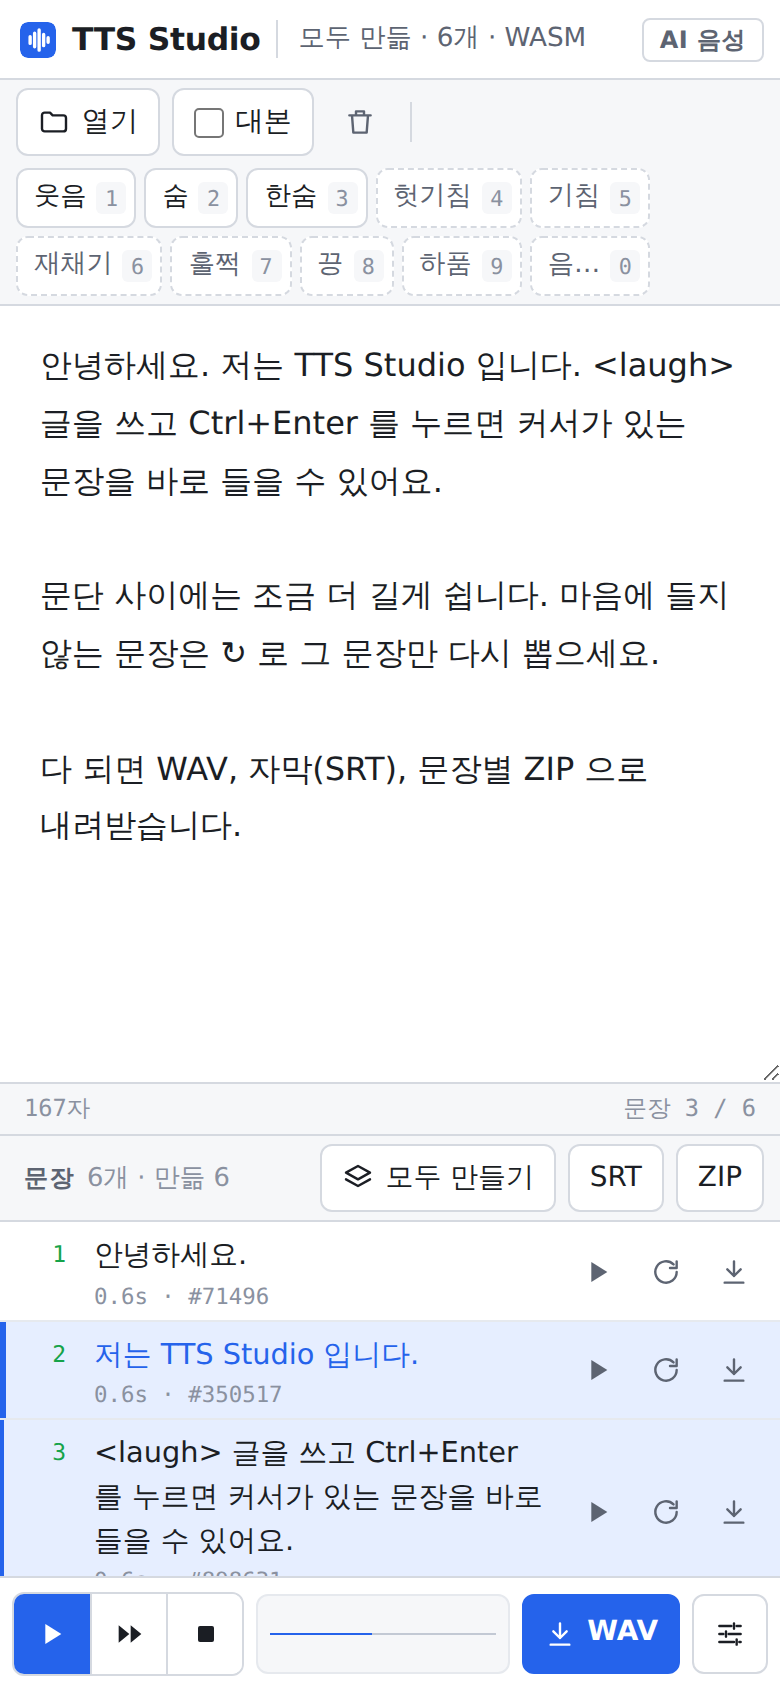
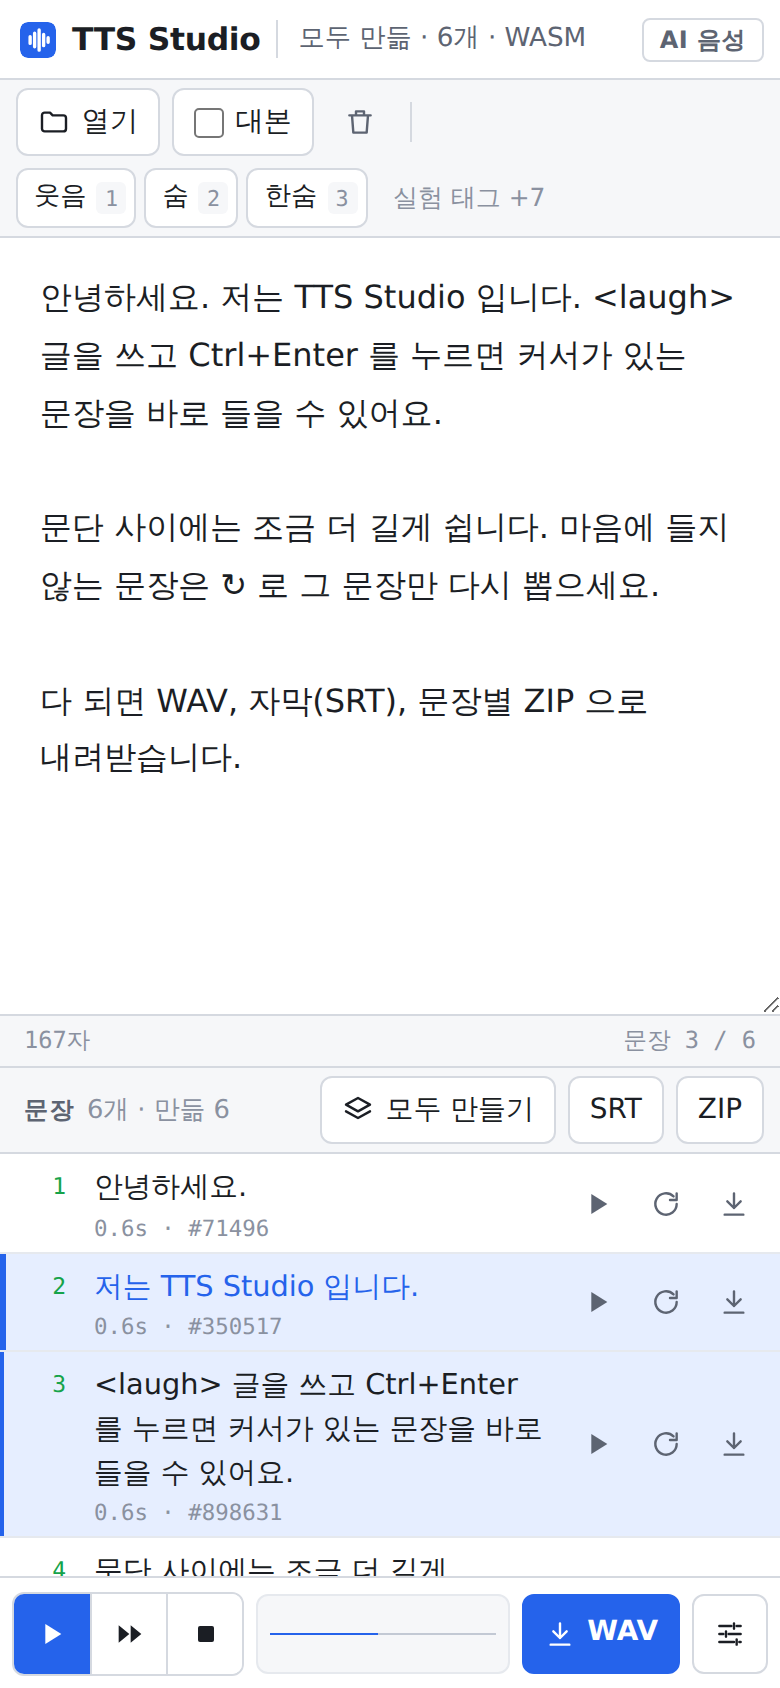
표현 태그: 공식 3개만 기본 표시, 언어별 태그 처리 설정, 문장 중간 태그 안내
- 공식 태그(웃음·숨·한숨)만 기본으로 보이고, 비공식 7개는 '실험 태그 +7'로 펼침
- 설정 › 소리 › 표현 태그: 자동(ko·en·ja·na 만 그대로, 그 밖 언어는 빼고 읽기) / 그대로 / 두 번 겹쳐 강조 / 빼기
  (개발사 답변: 태그 데이터는 주로 한·영·일, 다른 언어에서는 태그를 글자로 읽음, 문장 처음·끝에서 잘 됨)
- 문장 중간에 태그를 넣으면 처음·끝에 두라고 안내
- README·기술 문서·캡처 갱신

Claude-Session: https://claude.ai/code/session_0155CQqsCk6uGGt2juG83m5D

Changed region(s): [[0.0, 0.5853, 1.0, 0.955], [0.0308, 0.0924, 0.9538, 0.4929]]

diff --git a/app.js b/app.js
@@ -27,8 +27,8 @@ const TAGS = [
 const TAG_RE = /<[a-z-]+>/g;
 // 나이: 음 높이는 합성 뒤 다시 표본화로 바꾸고, 합성 빠르기를 그만큼 나눠 말 빠르기는 유지
 const AGES = { child: { pitch: 1.1, speed: 1.05 }, normal: { pitch: 1, speed: 1 }, adult: { pitch: 0.96, speed: 0.97 }, old: { pitch: 0.92, speed: 0.9 } };
-const SET_KEYS = ['lang', 'voice', 'age', 'speed', 'pitch', 'steps', 'seed', 'gap', 'para', 'gain', 'rate'];
-const DEFAULTS = { voice: 'F1', age: 'normal', speed: '1', pitch: '1', steps: '8', seed: '', gap: '300', para: '700', gain: '1', rate: '44100' };
+const SET_KEYS = ['lang', 'voice', 'age', 'speed', 'pitch', 'steps', 'seed', 'tagMode', 'gap', 'para', 'gain', 'rate'];
+const DEFAULTS = { voice: 'F1', age: 'normal', speed: '1', pitch: '1', steps: '8', seed: '', tagMode: 'auto', gap: '300', para: '700', gain: '1', rate: '44100' };
 const MODELS = {
   f32: 'leeyunjai/edge-lab@main/tts',
   int8: 'leeyunjai/edge-lab@71800e5/tts-int8',
@@ -39,7 +39,7 @@ const PRESET_KEY = 'tts-studio:presets';
 
 /* ================= 화면 요소 ================= */
 const ids = ['engine', 'helpBtn', 'settings', 'closeSettings', 'sheetBackdrop', 'openSettings', 'lang', 'voice', 'preview', 'age',
-  'preset', 'savePreset', 'delPreset', 'speed', 'pitch', 'steps', 'seed', 'dice', 'gap', 'para', 'gain', 'norm', 'rate',
+  'preset', 'savePreset', 'delPreset', 'speed', 'pitch', 'steps', 'seed', 'dice', 'tagMode', 'gap', 'para', 'gain', 'norm', 'rate',
   'resetSet', 'model', 'ep', 'applyEngine', 'clearModels', 'file', 'script', 'clearText', 'tagbar', 'text', 'cast', 'count',
   'cursorInfo', 'segInfo', 'genAll', 'segs', 'playCur', 'playFrom', 'stop', 'wave', 'nowText', 'saveWav', 'saveSrt', 'saveZip',
   'bar', 'help'];
@@ -99,6 +99,15 @@ const loading = tts.load(setStatus).then(() => {
 const hash = (s) => { let h = 2166136261; for (let i = 0; i < s.length; i++) { h ^= s.charCodeAt(i); h = Math.imul(h, 16777619); } return (h >>> 0) % 1000000; };
 // 낭독용 표기: 검열 표시(××)는 '모모', 책 제목 괄호는 소리 내지 않음
 const speakable = (t) => t.replace(/[×○]{2,}/g, '모모').replace(/[「」『』《》〈〉]/g, '').trim();
+// 표현 태그 처리. 개발사 설명: 태그 학습 데이터는 주로 한국어·영어·일본어라 그 밖 언어에서는 태그를 글자로 읽기도 함.
+// 자동 = 한·영·일·언어 구분 없음(na)에서는 그대로, 그 밖 언어에서는 빼고 읽음. 두 번 겹치기는 효과를 키우지만 글자로 읽힐 수도 있음.
+const TAG_LANGS = ['ko', 'en', 'ja', 'na'];
+function applyTags(text, lang, mode) {
+  const m = mode === 'auto' ? (TAG_LANGS.includes(lang) ? 'keep' : 'strip') : mode;
+  if (m === 'strip') return text.replace(TAG_RE, ' ').replace(/\s+/g, ' ').trim();
+  if (m === 'double') return text.replace(TAG_RE, (t) => `${t} ${t}`);
+  return text;
+}
 const segKey = (s) => `${s.who || ''}\u0001${s.text}`;
 
 // 한 문장의 합성 설정: 전체 설정 + (대본이면 인물 목소리·나이) + 시드(문장별 다시 뽑은 것 > 전체 시드 > 문장 내용으로 정한 시드)
@@ -107,10 +116,10 @@ function optsFor(seg) {
   const seed = seedOver[segKey(seg)] ?? (el.seed.value !== '' ? Number(el.seed.value) : hash(seg.text));
   return {
     lang: el.lang.value, voice: c?.voice || el.voice.value, age: c?.age || el.age.value,
-    speed: Number(el.speed.value), pitch: Number(el.pitch.value), steps: Number(el.steps.value), seed,
+    speed: Number(el.speed.value), pitch: Number(el.pitch.value), steps: Number(el.steps.value), seed, tagMode: el.tagMode.value,
   };
 }
-const keyOf = (o, text) => `${o.lang}|${o.voice}|${o.age}|${o.speed}|${o.pitch}|${o.steps}|${o.seed}|${text}`;
+const keyOf = (o, text) => `${o.lang}|${o.voice}|${o.age}|${o.speed}|${o.pitch}|${o.steps}|${o.seed}|${applyTags(text, o.lang, o.tagMode)}`;
 const cache = new Map();
 const MAX_CACHE = 600;
 async function synth(text, o, signal) {
@@ -121,7 +130,7 @@ async function synth(text, o, signal) {
   const a = AGES[o.age] || AGES.normal;
   const pitch = a.pitch * o.pitch;
   const t0 = performance.now();
-  const raw = await tts.synth(speakable(text), { voice: o.voice, lang: o.lang, steps: o.steps, speed: o.speed * a.speed / pitch, seed: o.seed, signal });
+  const raw = await tts.synth(speakable(applyTags(text, o.lang, o.tagMode)), { voice: o.voice, lang: o.lang, steps: o.steps, speed: o.speed * a.speed / pitch, seed: o.seed, signal });
   const pcm = pitch === 1 ? raw : resample(raw, pitch);
   const audio = pcm.length / tts.sampleRate;
   if (audio > 0.2) rtf = rtf * 0.7 + ((performance.now() - t0) / 1000 / audio) * 0.3;
@@ -594,6 +603,12 @@ function insertTag(tag) {
   // 앞뒤 띄어쓰기를 맞춤: 앞 글자가 붙어 있으면 한 칸, 뒤가 공백·문장부호면 띄우지 않음
   ta.setRangeText(`${before && !/\s$/.test(before) ? ' ' : ''}${tag}${!after || /^[\s.,!?…。，！？]/.test(after) ? '' : ' '}`, s, e, 'end');
   ta.dispatchEvent(new Event('input'));
+  // 문장 중간에 넣었으면 안내(태그는 문장 처음이나 끝에서 더 잘 됨)
+  const pos = ta.selectionStart;
+  const sb = ta.value.slice(0, pos).split(/[.!?…。！？\n]/).pop().replace(TAG_RE, '').trim();
+  const sa = ta.value.slice(pos).split(/[.!?…。！？\n]/)[0].replace(TAG_RE, '').trim();
+  if (sb && sa) setStatus('표현 태그는 문장 처음이나 끝에 둘 때 더 잘 됩니다');
+  else if (!TAG_LANGS.includes(el.lang.value) && el.tagMode.value === 'auto') setStatus('이 언어는 태그를 빼고 읽습니다 (설정 › 소리 › 표현 태그)');
 }
 TAGS.forEach(([tag, , name, official], i) => {
   const b = document.createElement('button');
@@ -604,6 +619,21 @@ TAGS.forEach(([tag, , name, official], i) => {
   b.onclick = () => insertTag(tag);
   el.tagbar.append(b);
 });
+// 비공식 7개는 기본으로 숨기고 '실험' 단추로 펼침(Alt+4~0 단축키는 숨겨도 동작)
+const EXP_KEY = 'tts-studio:expTags';
+const expBtn = document.createElement('button');
+expBtn.type = 'button'; expBtn.className = 'btn tag exp-toggle';
+expBtn.title = '공식 문서에 없는 태그 7개 (효과가 없거나 글자로 읽힐 수 있음)';
+expBtn.addEventListener('mousedown', (e) => e.preventDefault());
+function showExp(on) {
+  el.tagbar.classList.toggle('show-exp', on);
+  expBtn.textContent = on ? '실험 태그 접기' : '실험 태그 +7';
+  expBtn.setAttribute('aria-expanded', String(on));
+  store.set(EXP_KEY, on);
+}
+expBtn.onclick = () => showExp(!el.tagbar.classList.contains('show-exp'));
+el.tagbar.append(expBtn);
+showExp(!!store.get(EXP_KEY, false));
 
 /* ================= 단축키 ================= */
 document.addEventListener('keydown', (e) => {

diff --git a/index.html b/index.html
@@ -91,6 +91,15 @@
                 <button id="dice" class="icon boxed" type="button" title="무작위 시드" aria-label="무작위 시드"><svg class="ic"><use href="#i-shuffle"/></svg></button></span>
             </label>
             <p class="hint">품질 단계가 높을수록 깨끗하지만 느립니다. 시드를 비우면 문장마다 시드가 정해지고, 목록의 다시 뽑기로 그 문장만 바꿀 수 있습니다.</p>
+            <label class="f"><span>표현 태그</span>
+              <select id="tagMode">
+                <option value="auto">자동 (한·영·일만 사용)</option>
+                <option value="keep">항상 그대로</option>
+                <option value="double">두 번 겹쳐 강조</option>
+                <option value="strip">모두 빼고 읽기</option>
+              </select>
+            </label>
+            <p class="hint">자동은 한·영·일 밖의 언어에서 태그를 빼고 읽습니다. 태그는 실험 기능입니다. 문장 처음이나 끝에 둘 때 잘 되고, 소리 대신 글자로 읽힐 때가 있습니다. 그러면 다시 뽑기나 두 번 겹치기를 써 보세요.</p>
           </div>
         </details>
 
@@ -200,7 +209,7 @@
           <tr><td><kbd>Alt</kbd>+<kbd>1</kbd>~<kbd>0</kbd></td><td>표현 태그 넣기 (버튼 오른쪽 숫자)</td></tr>
           <tr><td><kbd>?</kbd></td><td>이 창 (편집기 밖에서)</td></tr>
         </table>
-        <p class="hint">Mac 은 <kbd>Ctrl</kbd> 대신 <kbd>⌘</kbd>, <kbd>Alt</kbd> 대신 <kbd>⌥</kbd>. 점선 태그 7개는 공식 문서에 이름이 없는 비공식 목록이라 효과가 없을 수 있습니다.</p>
+        <p class="hint">Mac 은 <kbd>Ctrl</kbd> 대신 <kbd>⌘</kbd>, <kbd>Alt</kbd> 대신 <kbd>⌥</kbd>. 공식 태그는 웃음·숨·한숨 3개입니다. '실험 태그'(점선) 7개는 공식 문서에 없는 목록이라 효과가 없거나 글자로 읽힐 수 있습니다. 태그는 문장 처음이나 끝에 두세요.</p>
         <p class="hint">음성은 <a href="https://huggingface.co/supertone-oss-archive/supertonic-3" target="_blank" rel="noopener">Supertonic 3</a>(Open RAIL-M)로 이 기기 안에서 만들며 글이 서버로 가지 않습니다. 만든 음성은 AI 음성임을 밝히고, 사람을 사칭하거나 속이는 데 쓰지 마세요. Supertone Inc. 와 관계없는 프로젝트입니다. · <a href="THIRD_PARTY_NOTICES.md">라이선스</a></p>
       </div>
     </form>

diff --git a/style.css b/style.css
@@ -150,6 +150,9 @@ kbd {
   border-radius: 3px; background: var(--head); color: var(--faint); font: 0.68rem var(--mono);
 }
 .tag.unofficial { border-style: dashed; color: var(--soft); }
+.tagbar:not(.show-exp) .tag.unofficial { display: none; }
+.exp-toggle { border-color: transparent; background: transparent; color: var(--faint); font-size: 0.78rem; }
+.exp-toggle:hover { color: var(--ink); }
 .editor-body { flex: 1; min-height: 0; display: flex; flex-direction: column; }
 #text {
   flex: 1; min-height: 200px; width: 100%; resize: none; margin: 0;

diff --git a/README.md b/README.md
@@ -20,7 +20,7 @@ PC·휴대폰 모두 됩니다. 처음 한 번 음성 모델을 내려받고(휴
 - **문장별로 다시 뽑기** — 마음에 안 드는 문장만 다시 뽑기 버튼(↻ 모양)으로 다른 소리로 다시 만듭니다. 고른 소리는 기억해 둡니다.
 - **파일 열기** — `.txt` `.md` `.srt` `.vtt`. 자막 파일은 자막 시간에 맞춰 이어 붙입니다.
 - **대본 모드** — `철수: 안녕?` 처럼 쓰면 인물마다 다른 목소리·나이를 줄 수 있습니다.
-- **표현 태그** — 웃음·숨·한숨 등 10개 버튼. 누르면 커서 자리에 들어갑니다.
+- **표현 태그** — 웃음·숨·한숨 버튼(+ 실험 태그 7개). 누르면 커서 자리에 들어갑니다.
 - **내려받기** — 전체 WAV, 전체 WAV 와 시간이 맞는 자막(SRT), 문장별 WAV 를 묶은 ZIP.
 - **31개 언어 + 자동** — 한국어, English, 日本語 등 31개. `자동`은 언어를 정하지 않고 읽습니다.
 
@@ -65,16 +65,13 @@ PC·휴대폰 모두 됩니다. 처음 한 번 음성 모델을 내려받고(휴
 Mac 은 `Ctrl` 대신 `⌘`, `Alt` 대신 `⌥`.
 
 ## 표현 태그
-버튼 오른쪽 숫자가 `Alt` + 숫자 단축키입니다.
+웃음 `<laugh>` · 숨 `<breath>` · 한숨 `<sigh>` 3개가 공식 태그입니다. 버튼 오른쪽 숫자가 `Alt` + 숫자 단축키입니다.
 
-| 버튼 | 태그 | 구분 |
-|---|---|---|
-| 웃음 `1` | `<laugh>` | 공식 |
-| 숨 `2` | `<breath>` | 공식 |
-| 한숨 `3` | `<sigh>` | 공식 |
-| 헛기침 `4` · 기침 `5` · 재채기 `6` · 훌쩍 `7` · 끙 `8` · 하품 `9` · 음… `0` | `<clear-throat>` `<cough>` `<sneeze>` `<sniff>` `<groan>` `<yawn>` `<hmm>` | 비공식 (점선 버튼) |
-
-공식 문서에 이름이 나온 태그는 앞의 3개뿐입니다. 나머지 7개는 다른 곳에 나온 목록이라 효과가 없거나 약할 수 있습니다.
+태그는 모델에서도 **실험 기능**이라 늘 잘 되지는 않습니다.
+- 문장 **처음이나 끝**에 두세요. 문장 중간에서는 잘 안 됩니다.
+- 소리 대신 태그를 글자로 읽을 때가 있습니다. 그 문장만 다시 뽑거나, 설정 › 소리 › 표현 태그를 `두 번 겹쳐 강조`로 바꿔 보세요.
+- 태그 학습 데이터가 주로 한국어·영어·일본어라, 그 밖의 언어에서는 기본값(`자동`)일 때 태그를 빼고 읽습니다. `항상 그대로`로 바꿀 수 있습니다.
+- `실험 태그 +7`을 누르면 헛기침 `<clear-throat>` · 기침 `<cough>` · 재채기 `<sneeze>` · 훌쩍 `<sniff>` · 끙 `<groan>` · 하품 `<yawn>` · 음… `<hmm>`이 나옵니다(점선 버튼). 공식 문서에 없는 목록이라 효과가 없거나 글자로 읽힐 수 있습니다.
 
 ## 잘 쓰는 요령
 - 처음엔 품질 단계 8 로 빠르게 맞춰 보고, 다 정해지면 16~32 로 올려 `모두 만들기` → 내려받기.

diff --git a/docs/TECHNICAL.md b/docs/TECHNICAL.md
@@ -52,6 +52,7 @@
 - **자막**: `.srt` / `.vtt` 를 열면 각 자막의 시작 시간에 맞춰 이어 붙임(앞 문장이 길면 바로 뒤에).
 - **시드**: mulberry32 로 초기 잡음을 고정. 전체 시드가 비면 문장 내용의 FNV-1a 해시(0~999999)를 씀 → 같은 문장은 늘 같은 소리. `↻` 는 그 문장만 무작위 시드로 바꾸고 기억함(`*` 표시).
 - **나이·음 높이**: 합성 뒤 다시 표본화로 음 높이를 바꾸고, 합성 빠르기를 `speed × 나이빠르기 ÷ 음높이` 로 맞춰 말 빠르기는 유지.
+- **표현 태그**: 모델에 특수 토큰이 없고 `<`, `>`, 영문자를 보통 글자로 넣음(공식 전처리도 태그를 따로 다루지 않음). 개발사 답변(supertone-inc/supertonic 이슈 124·148)에 따르면 태그 데이터는 주로 한·영·일이고, 문장 처음·끝에서 잘 되며, 겹쳐 쓰면 효과가 커지지만 글자로 읽힐 수도 있음. 설정 `표현 태그`: 자동(ko·en·ja·na 는 그대로, 그 밖은 빼기) / 그대로 / 두 번 겹치기 / 빼기. 캐시 키는 처리한 뒤의 글로 계산.
 - **캐시**: (언어, 목소리, 나이, 빠르기, 음 높이, 품질 단계, 시드, 글) 이 같으면 다시 합성하지 않음. 최대 600 문장.
 
 ## 내보내기
